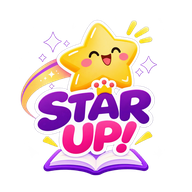
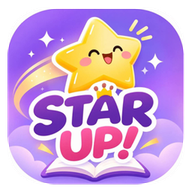
Add files via upload

diff --git a/student/index.html b/student/index.html
@@ -60,19 +60,18 @@
 <style id="starup-round3">.urgent-create{border:1px solid #ffd7a0;background:linear-gradient(135deg,#fff5e8,#fff);border-radius:16px;padding:14px;margin:14px 0}.urgent-check{display:flex;align-items:center;gap:9px;font-weight:700;color:#b34c32;cursor:pointer}.urgent-check input{width:19px;height:19px;accent-color:#e56b48}.urgent-badge{background:#ffe4df;color:#b33e2c;margin-right:5px}.urgent-mission-card{border:2px solid #ffb58e;background:linear-gradient(140deg,#fff4ed,#fff)}.urgent-remaining-inline{color:#bd4935;font-weight:700;margin:6px 0}.team-member{padding:13px;border:1px solid #eee8f4;border-radius:17px;background:linear-gradient(120deg,#fff,#fcfaff);margin:9px 0;box-shadow:0 5px 16px #53427a0b}.team-member .profile-icon{width:52px;height:52px;border-radius:18px;font-size:27px;background:linear-gradient(145deg,#ffe7a8,#e9e4ff);box-shadow:0 4px 12px #53427a18}#urgentAlertModal{position:fixed;inset:0;z-index:9999;background:#26183c99;display:flex;align-items:center;justify-content:center;padding:18px}#urgentAlertModal .urgent-pop{width:min(440px,100%);background:linear-gradient(145deg,#fff0e5,#fff 58%,#f2edff);border:2px solid #ffbd9d;border-radius:26px;padding:24px;text-align:center;box-shadow:0 22px 70px #24163d55;animation:urgentPop .35s ease-out}@keyframes urgentPop{from{transform:translateY(15px) scale(.95);opacity:0}to{transform:none;opacity:1}}#urgentAlertModal .urgent-big{font-size:58px;line-height:1.2}#urgentAlertModal .urgent-count{font:900 28px Nunito;color:#c04b35}#urgentAlertModal .urgent-remaining-label{font-size:12px;color:#8c7180;margin-top:14px}#urgentAlertModal .urgent-remaining{font:800 18px Kanit;color:#bd4935;background:#fff0e8;border-radius:12px;padding:10px;margin:7px 0}#urgentAlertModal .urgent-popup-nav{display:flex;justify-content:space-between;gap:8px;margin-top:10px}#urgentAlertModal .urgent-popup-nav button{flex:1}</style>
 
 
-<style id="starup-boot-blur-full-logo">
-/* Show the rendered app underneath a soft full-screen blur while booting. */
-#startupSplash{background:rgba(247,243,255,.64)!important;-webkit-backdrop-filter:blur(13px);backdrop-filter:blur(13px)}
-#app{transition:filter .35s ease}
-body:has(#startupSplash:not(.is-hidden)) #app{filter:blur(10px);transform:scale(1.015);transform-origin:center;pointer-events:none}
-#startupSplash .startup-logo-wrap{width:min(54vw,210px)!important;height:auto!important;aspect-ratio:1!important;border-radius:0!important;padding:0!important;background:transparent!important;box-shadow:none!important;overflow:visible!important}
+
+
+<style id="starup-symmetric-logo-v7">
+/* One square logo asset, one contain rule, consistent proportions in both portals. */
+#startupSplash .startup-logo-wrap{width:min(46vw,184px)!important;height:auto!important;aspect-ratio:1/1!important;max-width:184px!important;border:0!important;border-radius:0!important;padding:0!important;margin:0 auto!important;background:transparent!important;box-shadow:none!important;overflow:visible!important}
 #startupSplash .startup-logo-wrap:before{display:none!important}
-#startupSplash .startup-logo-wrap img{width:100%!important;height:100%!important;object-fit:contain!important;object-position:center!important;border-radius:0!important;clip-path:none!important;background:transparent!important;padding:0!important}
-.brandmark{display:block!important;width:54px!important;height:54px!important;min-width:54px!important;min-height:54px!important;object-fit:contain!important;object-position:center!important;border-radius:0!important;clip-path:none!important;padding:0!important;background:transparent!important;box-shadow:none!important;flex:0 0 54px!important}
+#startupSplash .startup-logo-wrap img{display:block!important;width:100%!important;height:100%!important;object-fit:contain!important;object-position:center!important;border:0!important;border-radius:0!important;clip-path:none!important;padding:0!important;margin:0!important;background:transparent!important}
+.brandmark{display:block!important;width:54px!important;height:54px!important;min-width:54px!important;min-height:54px!important;max-width:54px!important;max-height:54px!important;object-fit:contain!important;object-position:center!important;border:0!important;border-radius:0!important;clip-path:none!important;padding:0!important;margin:0!important;background:transparent!important;box-shadow:none!important;flex:0 0 54px!important}
 .top .brandmark,.profilehead .brandmark{width:54px!important;height:54px!important}
 </style>
 </head>
-<body><div id="startupSplash" aria-label="กำลังเปิด STAR UP"><div class="startup-inner"><div class="startup-logo-wrap"><img src="../logo-star-up-transparent.png?v=transparent4" alt="STAR UP!"></div><div class="startup-title">STAR UP!</div><div class="startup-subtitle">LEARN • PLAY • GROW</div><div class="startup-dots"><i></i><i></i><i></i></div></div></div><div id="app"></div><div class="modalback" id="modalback" onclick="if(event.target===this&&!missionUploadBusy)closeModal()"><div class="modal" id="modal"></div></div>
+<body><div id="startupSplash" aria-label="กำลังเปิด STAR UP"><div class="startup-inner"><div class="startup-logo-wrap"><img src="../logo-star-up-transparent.png?v=symmetric7" alt="STAR UP!"></div><div class="startup-title">STAR UP!</div><div class="startup-subtitle">LEARN • PLAY • GROW</div><div class="startup-dots"><i></i><i></i><i></i></div></div></div><div id="app"></div><div class="modalback" id="modalback" onclick="if(event.target===this&&!missionUploadBusy)closeModal()"><div class="modal" id="modal"></div></div>
 <script src="https://cdn.jsdelivr.net/npm/@supabase/supabase-js@2"></script><script src="https://cdnjs.cloudflare.com/ajax/libs/qrcodejs/1.0.0/qrcode.min.js"></script><script src="https://cdnjs.cloudflare.com/ajax/libs/jsQR/1.4.0/jsQR.min.js"></script>
 <script>
 // ใส่ Supabase Project URL และ anon/public key ของเจ้าของระบบก่อนเผยแพร่ออนไลน์
@@ -106,9 +105,9 @@ function togglePw(id,show){let el=$('#'+id);if(el)el.type=show?'text':'password'
 function setAuthView(v){authView=v;authMode=new URLSearchParams(location.search).get('portal')==='student'?'student':'teacher';renderAuth()}
 function setAuthMode(v){authMode=v;renderAuth()}
 function portalUrl(which){let base=location.pathname.replace(/[^/]*$/,'');return base+which+'/'}
-function renderPortalHome(){const logo='../logo-star-up-transparent.png?v=transparent4';$('#app').innerHTML=`<div class="authcard panel"><div class="brand"><img class="brandmark" src="${logo}" alt="STAR UP!"><div><h1>STAR UP!</h1><small>LEARN • PLAY • GROW</small></div></div><h2 class="center">เลือกเข้าสู่ระบบ</h2><p class="muted tiny center">เลือกพื้นที่ให้ตรงกับบทบาทของคุณ</p><a class="btn primary" style="display:block;text-align:center;text-decoration:none;width:100%;padding:14px" href="${portalUrl('teacher')}">👩🏫 เข้าสู่ระบบครู</a><a class="btn gold" style="display:block;text-align:center;text-decoration:none;width:100%;padding:14px;margin-top:12px" href="${portalUrl('student')}">🎒 เข้าสู่ระบบนักเรียน</a></div>`}
+function renderPortalHome(){const logo='../logo-star-up-transparent.png?v=symmetric7';$('#app').innerHTML=`<div class="authcard panel"><div class="brand"><img class="brandmark" src="${logo}" alt="STAR UP!"><div><h1>STAR UP!</h1><small>LEARN • PLAY • GROW</small></div></div><h2 class="center">เลือกเข้าสู่ระบบ</h2><p class="muted tiny center">เลือกพื้นที่ให้ตรงกับบทบาทของคุณ</p><a class="btn primary" style="display:block;text-align:center;text-decoration:none;width:100%;padding:14px" href="${portalUrl('teacher')}">👩🏫 เข้าสู่ระบบครู</a><a class="btn gold" style="display:block;text-align:center;text-decoration:none;width:100%;padding:14px;margin-top:12px" href="${portalUrl('student')}">🎒 เข้าสู่ระบบนักเรียน</a></div>`}
 function submitStudentLogin(){let t=extractToken($('#studentLoginCode')?.value);if(!t)return toast('กรุณาสแกน QR หรือกรอกรหัสนักเรียนให้ถูกต้อง');goStudent(t)}
-function renderAuth(){let invite=new URLSearchParams(location.search).get('invite'),isLogin=authView==='login';let studentMode=authMode==='student';$('#app').innerHTML=`<div class="authcard panel"><div class="brand"><img class="brandmark" src="../logo-star-up-transparent.png?v=transparent4" alt="STAR UP!"><div><h1>STAR UP!</h1><small>LEARN • PLAY • GROW</small></div></div><button class="btn soft" id="installAppBtn" onclick="installStarUpApp()" style="display:block;width:100%;margin:-5px 0 18px">📲 ติดตั้งแอป STAR UP!</button>${new URLSearchParams(location.search).get("portal")==="student"?"":new URLSearchParams(location.search).get("portal")==="teacher"?"":`<div class="authswitch"><button class="${!studentMode?'active':''}" onclick="setAuthMode('teacher')">👩🏫 ครู</button><button class="${studentMode?'active':''}" onclick="setAuthMode('student')">🎒 นักเรียน</button></div>`}${studentMode?`<h2 class="center">เข้าสู่หน้านักเรียน</h2><p class="muted tiny center">ใช้ QR ประจำตัว หรือกรอกรหัสจากบัตรนักเรียน</p><div class="notice info">🌟 นักเรียนไม่ต้องสมัครบัญชีและไม่ต้องใช้รหัสผ่าน</div><button class="btn primary" style="width:100%;padding:13px" onclick="openStudentScan()">📷 เปิดกล้องสแกน QR</button><div class="fieldrow" style="margin-top:18px"><label>หรือกรอกรหัส / วางลิงก์ QR</label><input id="studentLoginCode" class="field" placeholder="รหัสนักเรียนหรือ URL จาก QR" autocomplete="off"></div><button class="btn gold" style="width:100%" onclick="submitStudentLogin()">เข้าสู่ระบบนักเรียน</button>`:`<h2 class="center">${isLogin?'เข้าสู่ระบบ':'สมัครสมาชิกคุณครู'}</h2><p class="muted tiny center">${isLogin?'เข้าสู่ระบบเพื่อจัดการห้องเรียน':'สร้างบัญชีใหม่เพื่อจัดการห้องเรียน'}</p>${invite?'<div class="notice info">มีคำเชิญเข้าร่วมห้องเรียน เมื่อเข้าสู่ระบบแล้วระบบจะเพิ่มห้องให้อัตโนมัติ</div>':''}${isLogin?'':'<div class="fieldrow"><label>ชื่อที่แสดง</label><input id="authName" class="field" placeholder="ชื่อคุณครู"></div>'}<div class="fieldrow"><label>อีเมล</label><input id="authEmail" class="field" type="email" placeholder="teacher@example.com" autocomplete="email"></div>${pwField('authPass','รหัสผ่าน',isLogin?'รหัสผ่าน':'อย่างน้อย 8 ตัวอักษร')}${isLogin?'':pwField('authPass2','ยืนยันรหัสผ่าน','พิมพ์รหัสผ่านอีกครั้ง')}${isLogin?'<button class="btn primary" style="width:100%" onclick="window.signIn()">เข้าสู่ระบบครู</button><p class="center tiny muted" style="margin:14px 0 4px">ยังไม่มีบัญชี? <a href="#" onclick="setAuthView(\'signup\');return false" style="color:var(--purple);font-weight:700">สมัครสมาชิก</a></p>':'<button class="btn gold" style="width:100%" onclick="signUp()">สมัครสมาชิก</button><p class="center tiny muted" style="margin:14px 0 4px">มีบัญชีอยู่แล้ว? <a href="#" onclick="setAuthView(\'login\');return false" style="color:var(--purple);font-weight:700">เข้าสู่ระบบ</a></p>'}<div class="notice">บัญชีครูใช้สำหรับจัดการคะแนนและรางวัลเท่านั้น นักเรียนเข้าใช้งานผ่าน QR ประจำตัว</div><button class="btn white" style="width:100%" onclick="location.href=location.pathname">กลับหน้าแรก</button>`}</div>`}
+function renderAuth(){let invite=new URLSearchParams(location.search).get('invite'),isLogin=authView==='login';let studentMode=authMode==='student';$('#app').innerHTML=`<div class="authcard panel"><div class="brand"><img class="brandmark" src="../logo-star-up-transparent.png?v=symmetric7" alt="STAR UP!"><div><h1>STAR UP!</h1><small>LEARN • PLAY • GROW</small></div></div><button class="btn soft" id="installAppBtn" onclick="installStarUpApp()" style="display:block;width:100%;margin:-5px 0 18px">📲 ติดตั้งแอป STAR UP!</button>${new URLSearchParams(location.search).get("portal")==="student"?"":new URLSearchParams(location.search).get("portal")==="teacher"?"":`<div class="authswitch"><button class="${!studentMode?'active':''}" onclick="setAuthMode('teacher')">👩🏫 ครู</button><button class="${studentMode?'active':''}" onclick="setAuthMode('student')">🎒 นักเรียน</button></div>`}${studentMode?`<h2 class="center">เข้าสู่หน้านักเรียน</h2><p class="muted tiny center">ใช้ QR ประจำตัว หรือกรอกรหัสจากบัตรนักเรียน</p><div class="notice info">🌟 นักเรียนไม่ต้องสมัครบัญชีและไม่ต้องใช้รหัสผ่าน</div><button class="btn primary" style="width:100%;padding:13px" onclick="openStudentScan()">📷 เปิดกล้องสแกน QR</button><div class="fieldrow" style="margin-top:18px"><label>หรือกรอกรหัส / วางลิงก์ QR</label><input id="studentLoginCode" class="field" placeholder="รหัสนักเรียนหรือ URL จาก QR" autocomplete="off"></div><button class="btn gold" style="width:100%" onclick="submitStudentLogin()">เข้าสู่ระบบนักเรียน</button>`:`<h2 class="center">${isLogin?'เข้าสู่ระบบ':'สมัครสมาชิกคุณครู'}</h2><p class="muted tiny center">${isLogin?'เข้าสู่ระบบเพื่อจัดการห้องเรียน':'สร้างบัญชีใหม่เพื่อจัดการห้องเรียน'}</p>${invite?'<div class="notice info">มีคำเชิญเข้าร่วมห้องเรียน เมื่อเข้าสู่ระบบแล้วระบบจะเพิ่มห้องให้อัตโนมัติ</div>':''}${isLogin?'':'<div class="fieldrow"><label>ชื่อที่แสดง</label><input id="authName" class="field" placeholder="ชื่อคุณครู"></div>'}<div class="fieldrow"><label>อีเมล</label><input id="authEmail" class="field" type="email" placeholder="teacher@example.com" autocomplete="email"></div>${pwField('authPass','รหัสผ่าน',isLogin?'รหัสผ่าน':'อย่างน้อย 8 ตัวอักษร')}${isLogin?'':pwField('authPass2','ยืนยันรหัสผ่าน','พิมพ์รหัสผ่านอีกครั้ง')}${isLogin?'<button class="btn primary" style="width:100%" onclick="window.signIn()">เข้าสู่ระบบครู</button><p class="center tiny muted" style="margin:14px 0 4px">ยังไม่มีบัญชี? <a href="#" onclick="setAuthView(\'signup\');return false" style="color:var(--purple);font-weight:700">สมัครสมาชิก</a></p>':'<button class="btn gold" style="width:100%" onclick="signUp()">สมัครสมาชิก</button><p class="center tiny muted" style="margin:14px 0 4px">มีบัญชีอยู่แล้ว? <a href="#" onclick="setAuthView(\'login\');return false" style="color:var(--purple);font-weight:700">เข้าสู่ระบบ</a></p>'}<div class="notice">บัญชีครูใช้สำหรับจัดการคะแนนและรางวัลเท่านั้น นักเรียนเข้าใช้งานผ่าน QR ประจำตัว</div><button class="btn white" style="width:100%" onclick="location.href=location.pathname">กลับหน้าแรก</button>`}</div>`}
 async function signIn(){
   const btn=$('button[onclick="window.signIn()"]');
   const email=$('#authEmail')?.value.trim().toLowerCase()||'';
@@ -144,7 +143,7 @@ async function signIn(){
 window.signIn = signIn;
 async function signUp(){try{let name=$('#authName').value.trim(),email=$('#authEmail').value.trim(),password=$('#authPass').value,password2=$('#authPass2').value;if(!name||!email||password.length<8)return toast('กรอกชื่อ อีเมล และรหัสผ่านอย่างน้อย 8 ตัวอักษร');if(password!==password2)return toast('รหัสผ่านและช่องยืนยันไม่ตรงกัน');let {data,error}=await supa.auth.signUp({email,password,options:{data:{display_name:name}}});if(error)throw error;if(data.session){user=data.user;await loadTeacher();let invite=new URLSearchParams(location.search).get('invite');if(invite){let x=await supa.rpc('accept_classroom_invite',{p_token:invite});if(x.error)throw x.error;history.replaceState({},'',location.pathname);await loadTeacher()}renderTeacher()}else toast('สมัครแล้ว กรุณาตรวจอีเมลเพื่อยืนยันบัญชีก่อนเข้าสู่ระบบ')}catch(e){toast(e.message)}}
 async function logout(){await supa.auth.signOut();user=null;renderAuth()}
-function renderTeacher(demoMode=isDemo()){$('#app').innerHTML=`<div class="shell"><header class="top"><div class="brand"><img class="brandmark" src="../logo-star-up-transparent.png?v=transparent4" alt="STAR UP!"><div><h1>STAR UP!</h1><small>LEARN • PLAY • GROW</small></div></div><div class="actions"><span class="badge">${demoMode?'โหมดทดลอง':'บัญชีครูออนไลน์'}</span><button class="btn white" onclick="openTeacherProfile()"><span class="profile-icon">${esc(profile?.profile_icon||'🧑🏫')}</span>โปรไฟล์ครู</button>${user?'<button class="btn white" onclick="logout()">ออกจากระบบ</button>':'<button class="btn soft" onclick="demoStudent()">ทดลองหน้าจอนักเรียน</button><button class="btn white" onclick="showSetup()">ตั้งค่าออนไลน์</button>'}</div></header><section class="hero"><div><h2>ทุกคนมีดาวเป็นของตัวเอง ✨</h2><p>สะสมดาว ทำความดี แลกรางวัล และเติบโตไปด้วยกัน</p></div><div class="star">🌟</div></section>${demoMode?'<div class="notice info">โหมดทดลอง: ข้อมูลบันทึกอยู่ในเบราว์เซอร์นี้เท่านั้น ต้องเชื่อม Supabase และเผยแพร่เว็บไซต์ก่อนใช้ร่วมกันหลายอุปกรณ์</div>':''}${renderRoombar()}<div class="grid stats"><div class="stat"><div class="ico">👩🎓</div><div><b>${currentStudents().length}</b><small>นักเรียนในห้องนี้</small></div></div><div class="stat"><div class="ico">⭐</div><div><b>${money(currentStudents().reduce((n,s)=>n+(s.stars||0),0))}</b><small>ดาวคงเหลือรวม</small></div></div><div class="stat"><div class="ico">🏆</div><div><b style="font:700 15px Kanit">${esc([...currentStudents()].sort((a,b)=>b.stars-a.stars)[0]?.full_name||'—')}</b><small>ดาวเด่นประจำห้อง</small></div></div></div><nav class="tabs">${[['overview','🏠 ภาพรวม'],['students','👩🎓 นักเรียน'],['preview','📊 ดูหน้าจอสถานะนักเรียน'],['rewards','🎁 ของรางวัล'],['requests',`🔔 คำขอแลก ${requests.filter(r=>r.status==='pending').length?`<span class="tab-alert">${requests.filter(r=>r.status==='pending').length}</span>`:''}`],['missions',`🌱 ภารกิจ ${missionSubmissions.filter(q=>q.status==='pending').length?`<span class="tab-alert">${missionSubmissions.filter(q=>q.status==='pending').length}</span>`:''}`],['teachers','👩🏫 ทีมครู']].map(([id,t])=>`<button class="tab ${view===id?'active':''}" onclick="setView('${id}')">${t}</button>`).join('')}</nav><main>${teacherContent()}</main><div class="profilefoot">STAR UP! • ทุกคนมีดาวเป็นของตัวเอง</div></div>`}
+function renderTeacher(demoMode=isDemo()){$('#app').innerHTML=`<div class="shell"><header class="top"><div class="brand"><img class="brandmark" src="../logo-star-up-transparent.png?v=symmetric7" alt="STAR UP!"><div><h1>STAR UP!</h1><small>LEARN • PLAY • GROW</small></div></div><div class="actions"><span class="badge">${demoMode?'โหมดทดลอง':'บัญชีครูออนไลน์'}</span><button class="btn white" onclick="openTeacherProfile()"><span class="profile-icon">${esc(profile?.profile_icon||'🧑🏫')}</span>โปรไฟล์ครู</button>${user?'<button class="btn white" onclick="logout()">ออกจากระบบ</button>':'<button class="btn soft" onclick="demoStudent()">ทดลองหน้าจอนักเรียน</button><button class="btn white" onclick="showSetup()">ตั้งค่าออนไลน์</button>'}</div></header><section class="hero"><div><h2>ทุกคนมีดาวเป็นของตัวเอง ✨</h2><p>สะสมดาว ทำความดี แลกรางวัล และเติบโตไปด้วยกัน</p></div><div class="star">🌟</div></section>${demoMode?'<div class="notice info">โหมดทดลอง: ข้อมูลบันทึกอยู่ในเบราว์เซอร์นี้เท่านั้น ต้องเชื่อม Supabase และเผยแพร่เว็บไซต์ก่อนใช้ร่วมกันหลายอุปกรณ์</div>':''}${renderRoombar()}<div class="grid stats"><div class="stat"><div class="ico">👩🎓</div><div><b>${currentStudents().length}</b><small>นักเรียนในห้องนี้</small></div></div><div class="stat"><div class="ico">⭐</div><div><b>${money(currentStudents().reduce((n,s)=>n+(s.stars||0),0))}</b><small>ดาวคงเหลือรวม</small></div></div><div class="stat"><div class="ico">🏆</div><div><b style="font:700 15px Kanit">${esc([...currentStudents()].sort((a,b)=>b.stars-a.stars)[0]?.full_name||'—')}</b><small>ดาวเด่นประจำห้อง</small></div></div></div><nav class="tabs">${[['overview','🏠 ภาพรวม'],['students','👩🎓 นักเรียน'],['preview','📊 ดูหน้าจอสถานะนักเรียน'],['rewards','🎁 ของรางวัล'],['requests',`🔔 คำขอแลก ${requests.filter(r=>r.status==='pending').length?`<span class="tab-alert">${requests.filter(r=>r.status==='pending').length}</span>`:''}`],['missions',`🌱 ภารกิจ ${missionSubmissions.filter(q=>q.status==='pending').length?`<span class="tab-alert">${missionSubmissions.filter(q=>q.status==='pending').length}</span>`:''}`],['teachers','👩🏫 ทีมครู']].map(([id,t])=>`<button class="tab ${view===id?'active':''}" onclick="setView('${id}')">${t}</button>`).join('')}</nav><main>${teacherContent()}</main><div class="profilefoot">STAR UP! • ทุกคนมีดาวเป็นของตัวเอง</div></div>`}
 function renderRoombar(){return `<div class="roombar"><strong>🏫 ห้องเรียน</strong><select class="field" style="max-width:230px" onchange="changeRoom(this.value)">${rooms.map(r=>`<option value="${r.id}" ${r.id===activeRoom?'selected':''}>${esc(r.name)}</option>`).join('')}</select><button class="btn soft small" onclick="openCreateRoom()">＋ เพิ่มห้อง</button>${activeRoom?'<button class="btn white small" onclick="openRenameRoom()">✏ แก้ชื่อห้อง</button>':''}${activeRoom&&(isDemo()||roomNow()?.my_role==='owner')?'<button class="btn red small" onclick="deleteRoom()">🗑 ลบห้อง</button>':''}${activeRoom?'<button class="btn white small" onclick="inviteTeacher()">🔗 เชิญครู</button>':''}<span class="status">${rooms.length} ห้องที่เข้าถึงได้</span></div>`}
 function teacherContent(){if(!activeRoom)return `<section class="panel empty"><div class="big">🏫</div><h3>เริ่มต้นสร้างห้องเรียน</h3><p>สร้างห้องแรกเพื่อเพิ่มนักเรียนและตั้งค่าของรางวัล</p><button class="btn primary" onclick="openCreateRoom()">＋ สร้างห้องเรียน</button></section>`;if(view==='students')return studentManagement();if(view==='preview')return previewPage();if(view==='rewards')return rewardManagement();if(view==='requests')return requestManagement();if(view==='missions')return missionManagement();if(view==='teachers')return teacherManagement();return overviewPage()}
 function setView(v){view=v;renderTeacher(isDemo())}async function changeRoom(id){activeRoom=id;if(!isDemo())await loadRoom();else{demo.activeRoom=id;saveDemo();students=demo.students;rewards=demo.rewards.filter(r=>r.classroom_id===id);requests=demo.requests.filter(r=>r.classroom_id===id);teachers=demo.teachers}renderTeacher()}
@@ -192,7 +191,7 @@ function activeUrgentMissions(data){let now=Date.now();return (data?.missions||[
 function showUnseenUrgentMissions(data){let active=activeUrgentMissions(data);window.lastUrgentIds=active.map(m=>m.id);if(active.length)showUrgentMissionAlert(active)}
 function subscribeUrgentMissions(){if(!studentToken||!studentData)return;if(urgentPollTimer)clearInterval(urgentPollTimer);showUnseenUrgentMissions(studentData);urgentPollTimer=setInterval(async()=>{try{let fresh=await getStudentPortal(studentToken);if(!fresh)return;studentData=fresh;if(!document.getElementById('urgentAlertModal')){let newlyActive=activeUrgentMissions(fresh);let prev=window.lastUrgentIds||[];let added=newlyActive.filter(m=>!prev.includes(m.id));if(added.length)showUrgentMissionAlert(added);window.lastUrgentIds=newlyActive.map(m=>m.id)}if(studentTab==='missions'&&!document.getElementById('urgentAlertModal')){let y=window.scrollY;renderStudent();window.scrollTo(0,y)}}catch(e){}},5000)}
 async function loadStudent(){try{if(CLOUD_READY)supa=window.supabase.createClient(SUPABASE_URL,SUPABASE_ANON_KEY);studentData=await getStudentPortal(studentToken);if(!studentData){$('#app').innerHTML='<div class="profilewrap"><div class="panel profile-card center"><div class="big">🔒</div><h2>ไม่พบโปรไฟล์นักเรียน</h2><p class="muted">'+(isDemo()?'แอปนี้ยังไม่ได้เชื่อมต่อฐานข้อมูล (Supabase) จึงเปิดโปรไฟล์จากเครื่องอื่นไม่ได้ ผู้ดูแลต้องตั้งค่า SUPABASE_URL และ SUPABASE_ANON_KEY ในไฟล์ก่อน':'QR อาจไม่ถูกต้องหรือถูกยกเลิกแล้ว กรุณาติดต่อคุณครู')+'</p></div></div>';return}renderStudent();subscribeUrgentMissions()}catch(e){$('#app').innerHTML=`<div class="profilewrap"><div class="panel profile-card center"><h2>เปิดโปรไฟล์ไม่สำเร็จ</h2><p>${esc(e.message)}</p></div></div>`}}
-function renderStudent(){$('#app').innerHTML=`<div class="profilewrap">${previewMode?'<div class="notice info" style="position:sticky;top:0;z-index:5;display:flex;justify-content:space-between;align-items:center;gap:8px;flex-wrap:wrap">👁 โหมดตัวอย่าง: กำลังดูหน้าจอของนักเรียน (ดูได้อย่างเดียว)<button class="btn white small" onclick="exitPreview()">← กลับหน้าครู</button></div>':''}<div class="profilehead"><div class="brand"><img class="brandmark" src="../logo-star-up-transparent.png?v=transparent4" alt="STAR UP!"><div><h1>STAR UP!</h1><small>LEARN • PLAY • GROW</small></div></div><div class="actions"><span class="badge">STUDENT PROFILE</span>${previewMode?'':'<button class="btn white small" onclick="logoutStudent()">ออกจากระบบ</button>'}</div></div><div class="studentapp"><section class="studenthero"><div><div class="tiny muted">WELCOME, STAR!</div><h2 style="margin:4px 0 8px">${esc(studentData.student.full_name)} ✨</h2><div class="tiny muted">🏫 ${esc(studentData.classroom?.name||'ห้องเรียน')}</div><div class="star-balance" style="font:900 38px Nunito;color:#d69a1e;margin-top:12px">${money(studentData.student.stars)} ⭐</div><div class="tiny muted">ดาวสะสมของฉัน</div></div><div class="profile-icon large">${esc(studentData.student.profile_icon||'⭐')}</div></section><nav class="student-tabs">${[['profile','🌟 โปรไฟล์'],['missions','🌱 ภารกิจ'],['icon','😊 ไอคอนของฉัน'],['rewards','🎁 ร้านแลกรางวัล'],['ranking','🏆 อันดับ']].map(([id,t])=>`<button class="tab ${studentTab===id?'active':''}" onclick="studentTab='${id}';renderStudent()">${t}</button>`).join('')}</nav>${studentContent()}<div class="profilefoot">STAR UP! • ทุกคนมีดาวเป็นของตัวเอง</div></div></div>`}
+function renderStudent(){$('#app').innerHTML=`<div class="profilewrap">${previewMode?'<div class="notice info" style="position:sticky;top:0;z-index:5;display:flex;justify-content:space-between;align-items:center;gap:8px;flex-wrap:wrap">👁 โหมดตัวอย่าง: กำลังดูหน้าจอของนักเรียน (ดูได้อย่างเดียว)<button class="btn white small" onclick="exitPreview()">← กลับหน้าครู</button></div>':''}<div class="profilehead"><div class="brand"><img class="brandmark" src="../logo-star-up-transparent.png?v=symmetric7" alt="STAR UP!"><div><h1>STAR UP!</h1><small>LEARN • PLAY • GROW</small></div></div><div class="actions"><span class="badge">STUDENT PROFILE</span>${previewMode?'':'<button class="btn white small" onclick="logoutStudent()">ออกจากระบบ</button>'}</div></div><div class="studentapp"><section class="studenthero"><div><div class="tiny muted">WELCOME, STAR!</div><h2 style="margin:4px 0 8px">${esc(studentData.student.full_name)} ✨</h2><div class="tiny muted">🏫 ${esc(studentData.classroom?.name||'ห้องเรียน')}</div><div class="star-balance" style="font:900 38px Nunito;color:#d69a1e;margin-top:12px">${money(studentData.student.stars)} ⭐</div><div class="tiny muted">ดาวสะสมของฉัน</div></div><div class="profile-icon large">${esc(studentData.student.profile_icon||'⭐')}</div></section><nav class="student-tabs">${[['profile','🌟 โปรไฟล์'],['missions','🌱 ภารกิจ'],['icon','😊 ไอคอนของฉัน'],['rewards','🎁 ร้านแลกรางวัล'],['ranking','🏆 อันดับ']].map(([id,t])=>`<button class="tab ${studentTab===id?'active':''}" onclick="studentTab='${id}';renderStudent()">${t}</button>`).join('')}</nav>${studentContent()}<div class="profilefoot">STAR UP! • ทุกคนมีดาวเป็นของตัวเอง</div></div></div>`}
 function studentContent(){let p=studentData;if(studentTab==='missions')return studentMissionPage();if(studentTab==='icon')return `<section class="panel"><h3>😊 เลือกไอคอนประจำตัว</h3><p class="tiny muted">เลือกสัญลักษณ์ที่ชอบเพื่อใช้แทนรูปโปรไฟล์ของตัวเอง</p>${iconPicker(p.student.profile_icon||'⭐','studentChooseIcon')}<div class="modalfoot"><button class="btn primary" onclick="saveStudentIcon()">บันทึกไอคอน</button></div></section>`;if(studentTab==='rewards')return studentRewards();if(studentTab==='ranking')return `<section class="panel"><h3>🏆 LEADERBOARD • ${esc(p.classroom?.name||'ห้องเรียน')}</h3>${p.leaderboard.map((s,i)=>`<div class="listrow"><div class="row"><b class="rank">${['🥇','🥈','🥉'][i]||i+1}</b><span class="profile-icon">${esc(s.profile_icon||'⭐')}</span><strong>${esc(s.name)}</strong></div><b>${money(s.stars)} ⭐</b></div>`).join('')}</section>`;return `<div class="grid contentgrid"><section class="panel"><h3>✨ ความสำเร็จของฉัน</h3><div class="notice success">ทุกความพยายามมีค่า เก็บดาวเพื่อแลกรางวัลที่ชอบนะ!</div><div class="listrow"><span>ดาวสะสมทั้งหมด</span><b>${money(p.student.stars)} ⭐</b></div><div class="listrow"><span>ห้องเรียน</span><b>${esc(p.classroom?.name||'—')}</b></div></section><section class="panel"><h3>🧾 ประวัติดาวล่าสุด</h3>${p.recent.length?p.recent.map(t=>`<div class="listrow"><div><strong>${esc(t.reason)}</strong><div class="tiny muted">${new Date(t.created_at).toLocaleDateString('th-TH')}</div></div><b style="color:${t.stars_delta>=0?'#25855c':'#b66b23'}">${t.stars_delta>0?'+':''}${t.stars_delta} ⭐</b></div>`).join(''):'<div class="empty">ยังไม่มีกิจกรรม</div>'}</section></div><section class="panel" style="margin-top:14px"><h3>🔔 สถานะคำขอแลกรางวัล</h3>${p.requests.slice(0,5).map(r=>`<div class="listrow"><span>${esc(r.emoji||'🎁')} ${esc(r.reward_name||'ของรางวัล')}</span><span class="badge">${statusText(r.status)}</span></div>`).join('')||'<div class="empty">ยังไม่มีคำขอ</div>'}</section>`}
 function statusText(s){return s==='pending'?'รอครูอนุมัติ':s==='approved'?'อนุมัติแล้ว':'ไม่อนุมัติ'}
 function studentChooseIcon(icon,el){chooseIcon(icon,el)}

diff --git a/student/sw.js b/student/sw.js
@@ -1,5 +1,5 @@
 /* STAR UP! student PWA — independent scope and cache */
-const CACHE_NAME='star-up-student-v6-exact3-transparent5';
+const CACHE_NAME='star-up-student-v6-symmetric7';
 const BASE=new URL(self.registration.scope);
 const CORE=['','index.html','manifest.webmanifest','logo-star-up.jpg','icon-192.png','icon-512.png','apple-touch-icon.png','favicon-32.png'].map(p=>new URL(p,BASE).href);
 self.addEventListener('install',e=>e.waitUntil((async()=>{const c=await caches.open(CACHE_NAME);await Promise.all(CORE.map(async u=>{try{const r=await fetch(u,{cache:'reload'});if(r.ok)await c.put(u,r)}catch{}}));await self.skipWaiting()})()));
